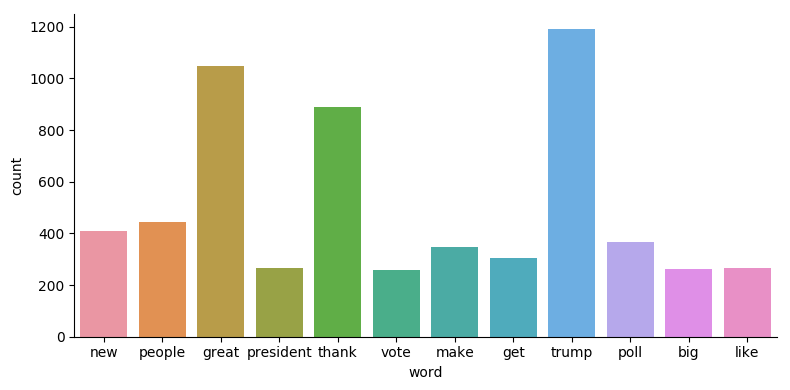
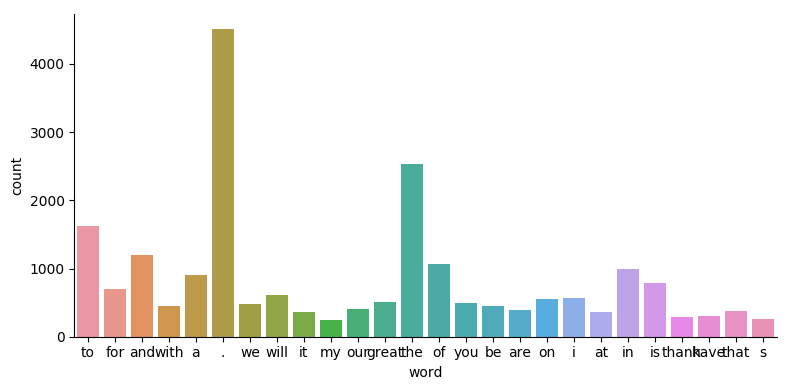
[Code] Added duplicate-of-corpus check, and fixed sentence production

diff --git a/src/ronald_brain/generator.py b/src/ronald_brain/generator.py
@@ -6,6 +6,8 @@ from ronald_brain.util import preprocessor
 from ronald_brain.util.preprocessor import Ngram
 from .util.ginger import ginger
 
+from .util.constants import SENTENCE_LENGTH_COEF, WEIGHTED_SENTENCE_ENDERS
+
 
 class Generator:
     """
@@ -15,7 +17,7 @@ class Generator:
     All models are created when the class is initialized with a filename.
     The entrypoint to get the next word is predict_next()
     """
-    def __init__(self, twitter_user=None, word_ngrams=2, sent_length_ngrams=2):
+    def __init__(self, twitter_user, word_ngrams=2, sent_length_ngrams=2, seed_words_n=2):
         """
         Here we initialize the Generator by creating all the models necessary
 
@@ -26,7 +28,7 @@ class Generator:
         self.preprocessor = preprocessor.Preprocessor(self.twitter_user)
         self.word_n = word_ngrams
         self.sentence_n = sent_length_ngrams
-        self.first_words_n = constants.FIRST_WORDS_N
+        self.seed_words_n = seed_words_n
 
         # we store a unique n-gram model for each n=2 -> n
         print("Building word n-gram models...")
@@ -38,7 +40,7 @@ class Generator:
         print("Sentence-length n-gram models built!\n")
 
         print("Building model for first words")
-        first_word_models = self.preprocessor.build_model_list(constants.FIRST_WORDS_N, Ngram.FIRST_WORD)
+        first_word_models = self.preprocessor.build_model_list(self.seed_words_n, Ngram.FIRST_WORD)
         print("First words n-gram models built!")
 
         self.models = {'word': word_ngram_models,
@@ -104,10 +106,13 @@ class Generator:
         :param seed_words:
         :return:
         '''
-        result = "bad"
-        output = ["a", "test", "sentence"]
+        if(length == 1):
+            length +=1
 
-        while(result):
+        is_ready = False
+        output = []
+
+        while(not is_ready):
             if(seed_words):
                 first_word = self.predict_next(constants.KEY_DELIMITER.join(seed_words), 'word')
             else:
@@ -127,15 +132,20 @@ class Generator:
                     prev = constants.KEY_DELIMITER.join(output[-self.word_n + 1:])
 
                 next_word = self.predict_next(prev, 'word')
-                # print("\n")
                 output.append(next_word)
 
             sent = ' '.join(output)
             candidate = postprocessor.run_pre_ginger(sent)
-            # print("Candidate:\n%s\n" % candidate)
+            # print("\nCandidate:\n\t%s" % candidate)
 
-            result = ginger.get_ginger_result(candidate)["LightGingerTheTextResult"]
+            # This value of the Ginger API result will not exist if the sentence is accepted by Ginger
+            is_ready = ginger.get_ginger_result(candidate)["LightGingerTheTextResult"] == []
 
+            if(is_ready and length > 2):
+                print("Ginger check passed!")
+                is_ready = not postprocessor.matches_corpus(output, self.preprocessor.string_total_words_only())
+
+        print("Corpus match check passed!")
         return output
 
 
@@ -143,6 +153,8 @@ class Generator:
     def generate(self, char_count):
         # The way of choosing the first words is a little hacky
         next_len = int(self.predict_next('', 'sent_len')) # Predictions are always strings. So we convert to int
+        if(next_len > 6):
+            next_len = int(round(next_len * SENTENCE_LENGTH_COEF))
         output = []
 
         char_total = 0
@@ -151,10 +163,13 @@ class Generator:
             if(char_total > char_count):
                 break
             sentence = self.generate_sentence(next_len)
+            ender = self.weighted_choice(WEIGHTED_SENTENCE_ENDERS)
             sent_string = ' '.join(sentence)
-            output.append(sent_string)
+            output.append(sent_string + ender)
 
             next_len = int(self.predict_next(str(len(output[-1])), 'sent_len')) # Predict the next sent_length
+            if (next_len > 6):
+                next_len = int(round(next_len * SENTENCE_LENGTH_COEF))
 
             char_total += len(sent_string)
 

diff --git a/src/graphs/favourite_words.py b/src/graphs/favourite_words.py
@@ -9,10 +9,10 @@ import matplotlib.pyplot as plt
 
 import pandas as pd
 
-def favourite_english_words():
-    pp = preprocessor.Preprocessor("/home/rory/projects/ronald/data/trump-tweets.csv")
-    words = pp.words_only()
-    count = Counter(words)
+def favourite_english_words(user):
+    user_twitter = constants.TWITTER_ACCOUNTS[user]
+    pp = preprocessor.Preprocessor(user_twitter)
+    count = Counter(pp.words_only_flat)
     labels, values = zip(*count.items())
 
     word_dict = {"word" : labels, "count": values}
@@ -23,12 +23,13 @@ def favourite_english_words():
     sns_plot = sns.factorplot(x='word', y='count', data=df, kind='bar', aspect=2)
     sns_plot.savefig("graphs/histograms/english_word_count.png")
 
-    # plt.show()
+    plt.show()
 
 
-def words_after_word(target_word):
-    pp = preprocessor.Preprocessor("/home/rory/projects/ronald/data/trump-tweets.csv", "/home/rory/projects/ronald/data/trump-speeches.txt")
-    words = [t for t in pp.combined_tokens if t not in USELESS_PUNCTUATION + FRONT_PUNCTUATION]
+def words_after_word(user, target_word):
+    user_twitter = constants.TWITTER_ACCOUNTS[user]
+    pp = preprocessor.Preprocessor(user_twitter)
+    words = [t for t in pp.tokenized_flat if t not in USELESS_PUNCTUATION + FRONT_PUNCTUATION]
 
     grams = pp.build_n_grams(words, 5)
 
@@ -45,13 +46,13 @@ def words_after_word(target_word):
     df = df.head(7)
 
     sns_plot = sns.factorplot(x='word', y='count', data=df, kind='bar', aspect=2)
-    # sns_plot.savefig("graphs/histograms/english_word_count.png")
+    sns_plot.savefig("graphs/%s/histograms/words_after_%s.png" % (user_twitter, target_word))
 
     plt.show()
 
 
-# favourite_english_words()
-words_after_word("trump")
+favourite_english_words("DONALD_TRUMP")
+words_after_word("DONALD_TRUMP", "clinton")
 
 
 

diff --git a/src/ronald_brain/util/preprocessor.py b/src/ronald_brain/util/preprocessor.py
@@ -2,6 +2,8 @@ import re
 import sys
 from enum import Enum
 from .twitter import tweets
+from .constants import SENTENCE_ENDERS
+from .constants import WEIGHTED_SENTENCE_ENDERS
 
 from .tokenize import *
 
@@ -27,7 +29,8 @@ class Preprocessor:
         """
 
         ### Keep the raw_tweets to be re-used as needed
-        self.raw_tweets = [t[2] for t in tweets.get_tweets(user)]
+        tweet_data = tweets.get_tweets(user)
+        self.raw_tweets = [t[2] for t in tweet_data]
 
         self.tokenized_tweets = tokenize_raw_tweets(self.raw_tweets)
         self.tokenized_flat = get_flat_tokens(self.tokenized_tweets)
@@ -37,9 +40,10 @@ class Preprocessor:
         # Set this based on what kind of output you want
         # Should be a flat list of tokens
         self.tokens_to_use = self.words_only_flat
+        self.tokens_to_use = [t  for t in self.tokens_to_use if not (t in SENTENCE_ENDERS)]
 
-    def all_tweets_as_string(self):
-        return ''.join(self.raw_tweets)
+    def string_total_words_only(self):
+        return ' '.join(self.words_only_flat)
 
 
         ###############################
@@ -59,9 +63,8 @@ class Preprocessor:
         :return list of strings, where each string contains `n` words:
         '''
         tweets = split_into_sentences(raw_data)
-        foo = [tokenize_tweet(sentence) for tweet in tweets for sentence in tweet]
-        tokenized_sentences = [words_only(t) for t in foo]
-        # print(tokenized_sentences[:10])
+        tokenized_sentences = [tokenize_tweet(sentence) for tweet in tweets for sentence in tweet]
+        tokenized_sentences = [words_only(t) for t in tokenized_sentences]
         tokenized_sentences = [s for s in tokenized_sentences if len(s) > 0]
         first_words = [tuple(s[:n]) for s in tokenized_sentences]
 

diff --git a/src/ronald_brain/util/postprocessor.py b/src/ronald_brain/util/postprocessor.py
@@ -1,5 +1,5 @@
 import nltk.data
-from .constants import FRONT_PUNCTUATION, USELESS_PUNCTUATION
+from .constants import FRONT_PUNCTUATION, USELESS_PUNCTUATION, NUMBER_TWITTER_HANDLE_REGEX, MAX_OVERLAP_RATIO, MAX_OVERLAP_TOTAL
 
 def run(text):
     text = remove_useless_punctuation(text)
@@ -12,6 +12,20 @@ def run_pre_ginger(text):
     text = fix_punctuation(text)
     text = capitalize_sentences(text)
     return text
+
+def matches_corpus(sentence, text):
+    # Reject large chunks of similarity
+    overlap_ratio = int(round(MAX_OVERLAP_RATIO * len(sentence)))
+    overlap_max = min(MAX_OVERLAP_TOTAL, overlap_ratio)
+    overlap_over = overlap_max + 1
+    gram_count = max((len(sentence) - overlap_max), 1)
+    grams = [sentence[i:i + overlap_over] for i in range(gram_count)]
+    for g in grams:
+        gram_joined = " ".join(g)
+        if gram_joined in text:
+            print("'%s' is a dublicate of the corpus" % (gram_joined))
+            return True
+    return False
 
 def fix_punctuation(text):
     output = text
@@ -28,7 +42,7 @@ def remove_useless_punctuation(text):
 
 def remove_useless_punctuation_and_handles(text):
     output = text
-    output = output.replace(r'\@*\w*\d+', '')
+    output = output.replace(NUMBER_TWITTER_HANDLE_REGEX, '')
     for p in USELESS_PUNCTUATION:
         output = output.replace(p, '')
     return remove_double_space(output)

diff --git a/src/ronald_brain/util/tokenize.py b/src/ronald_brain/util/tokenize.py
@@ -2,6 +2,7 @@ import nltk
 from .constants import NON_ENGLISH_WORDS, TWEET_REGEXES
 import enchant
 import re
+from nltk.corpus import stopwords
 
 token_reg = re.compile(r'(' + '|'.join(TWEET_REGEXES) + ')', re.VERBOSE | re.IGNORECASE)
 d = enchant.Dict("en_UK")
@@ -13,6 +14,11 @@ def get_flat_tokens(tokenized_tweets):
     :return:
     '''
     return [token for tweet in tokenized_tweets for token in tweet]
+
+def remove_stops(tokens):
+    stop_words = list(stopwords.words('english'))
+    return [t for t in tokens if t not in stop_words]
+
 
 
 def tokenize_raw_tweets(raw_tweets):
@@ -55,9 +61,14 @@ def split_into_sentences(raw_data):
 
 
 def words_only(total_tokens):
+    '''
+    Filter the tokens to remove tokens which are not English words
+    :param total_tokens:
+    :return:
+    '''
     words = [w for w in total_tokens if w not in NON_ENGLISH_WORDS]
 
-    words = [w for w in words if d.check(w.lower())]
+    words = [w for w in words if d.check(w)]
 
 
     return words

diff --git a/src/graphs/word_cloud.py b/src/graphs/word_cloud.py
@@ -1,11 +1,10 @@
 from ronald_brain.util.preprocessor import *
+from ronald_brain.util.tokenize import *
 from ronald_brain.util.constants import TWEET_REGEXES, FRONT_PUNCTUATION, USELESS_PUNCTUATION
 from wordcloud import WordCloud
 from wordcloud.tokenization import unigrams_and_bigrams, process_tokens
 
 import matplotlib.pyplot as plt
-
-import csv
 
 class TweetCloud(WordCloud):
     '''
@@ -34,11 +33,10 @@ class TweetCloud(WordCloud):
 
         return word_counts
 
-def create_word_cloud(file_name):
-    pp = Preprocessor(file_name)
-    words = pp.words_only()
+def create_word_cloud(user):
+    pp = Preprocessor(user)
 
-    wc = TweetCloud(width=800, height=400).generate(words)
+    wc = TweetCloud(width=800, height=400).generate(pp.words_only_flat)
 
     return wc
 

diff --git a/src/ronald_brain/util/constants.py b/src/ronald_brain/util/constants.py
@@ -1,12 +1,28 @@
+TWITTER_ACCOUNTS = {
+    "DONALD_TRUMP" : "realdonaldtrump",
+    "MARK_HUMPHRYS": "markhumphrys"
+}
+
 KEY_DELIMITER = ' '
 CONSTANT = 5
 START_TOKEN = '<START>'
 FIRST_WORDS_N = 1
 
+SENTENCE_LENGTH_COEF = 0.6
+
+MAX_OVERLAP_RATIO = 0.9
+MAX_OVERLAP_TOTAL = 15
+
 FRONT_PUNCTUATION = [',', '.', '?', '!', ':', ';']
 USELESS_PUNCTUATION = ['(', ')', '"', '\'', '^', '@', '-', '_', '*', '&', '$', '+', '=']
 NON_ENGLISH_WORDS = ['rt', 'amp', 'Rt']
 
+SENTENCE_ENDERS = ['.', '!', '?']
+WEIGHTED_SENTENCE_ENDERS = {'.': 0.8,
+                            '!': 0.1,
+                            '?': 0.1}
+
+NUMBER_TWITTER_HANDLE_REGEX = r'\@*\w*\d+'
 
 CSV_FILE_LOCATION = 'data/'
 

diff --git a/src/test.py b/src/test.py
@@ -4,7 +4,7 @@ from sys import exit
 import ronald_brain.util.constants as c
 
 user = 'markhumphrys'
-gen = generator.Generator(user, 3, 2)
+gen = generator.Generator(user, 4, 2)
 
 send_to_twitter = ''
 tweet = ''
